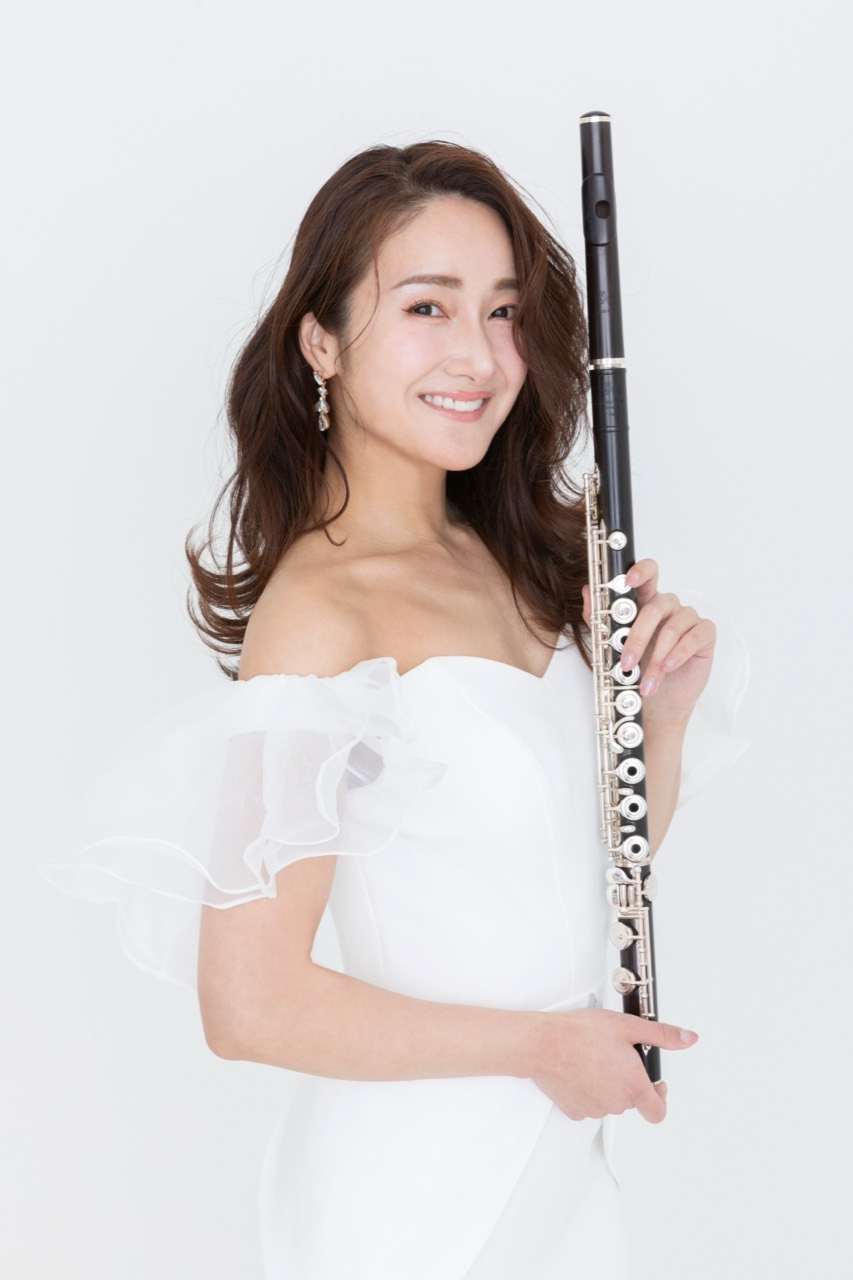
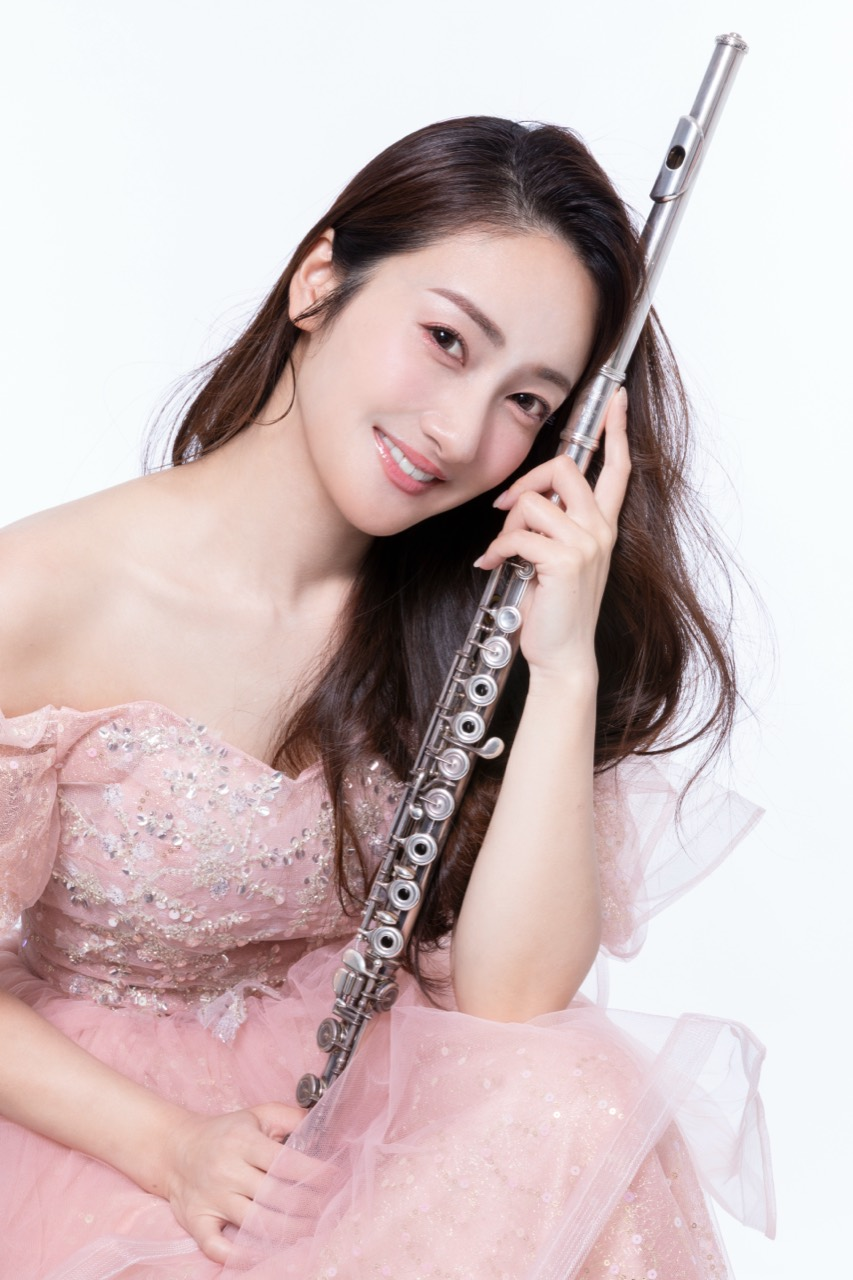
Add representative profile section

diff --git a/index.html b/index.html
@@ -416,6 +416,93 @@
       font-size: 0.92rem;
     }
 
+
+    .representative-section {
+      background:
+        linear-gradient(180deg, rgba(255, 253, 248, 0.72), rgba(247, 245, 242, 0.96));
+    }
+
+    .representative-grid {
+      display: grid;
+      grid-template-columns: minmax(260px, 0.78fr) minmax(0, 1.22fr);
+      gap: 38px;
+      align-items: start;
+    }
+
+    .representative-photo {
+      overflow: hidden;
+      border: 1px solid rgba(139, 107, 63, 0.24);
+      border-radius: var(--radius);
+      background: var(--panel-soft);
+      box-shadow: var(--shadow);
+      aspect-ratio: 4 / 5;
+    }
+
+    .representative-photo img {
+      width: 100%;
+      height: 100%;
+      object-fit: cover;
+      object-position: center top;
+      display: block;
+    }
+
+    .representative-profile {
+      border-top: 1px solid var(--line);
+      padding-top: 24px;
+    }
+
+    .representative-name {
+      margin: 0 0 4px;
+      font-size: clamp(1.8rem, 3vw, 2.5rem);
+      font-weight: 500;
+      letter-spacing: 0.08em;
+    }
+
+    .representative-role {
+      display: block;
+      margin-bottom: 22px;
+      color: var(--accent);
+      font-family: "Cormorant Garamond", serif;
+      font-size: 1.18rem;
+      letter-spacing: 0.08em;
+    }
+
+    .representative-profile p {
+      margin: 0 0 15px;
+      color: var(--text-muted);
+      font-size: 0.98rem;
+      line-height: 1.86;
+    }
+
+    .representative-links {
+      display: flex;
+      flex-wrap: wrap;
+      gap: 10px;
+      margin: 24px 0 20px;
+    }
+
+    .representative-license {
+      margin-top: 20px;
+      padding: 18px 20px;
+      border: 1px solid rgba(139, 107, 63, 0.24);
+      border-radius: var(--radius);
+      background: rgba(255, 253, 248, 0.72);
+    }
+
+    .representative-license h3 {
+      margin: 0 0 10px;
+      color: var(--accent);
+      font-size: 0.95rem;
+      letter-spacing: 0.08em;
+    }
+
+    .representative-license ul {
+      margin: 0;
+      padding-left: 1.1em;
+      color: var(--text-muted);
+      font-size: 0.92rem;
+      line-height: 1.82;
+    }
     .program-table {
       display: grid;
       grid-template-columns: repeat(3, minmax(0, 1fr));
@@ -956,6 +1043,17 @@
         grid-template-columns: 1fr;
       }
 
+
+      .representative-grid {
+        grid-template-columns: 1fr;
+        gap: 26px;
+      }
+
+      .representative-photo {
+        max-width: 460px;
+        width: 100%;
+        margin-inline: auto;
+      }
       .hero-grid {
         gap: 26px;
       }
@@ -1199,6 +1297,40 @@
       </div>
     </section>
 
+
+    <section id="representative-message" class="representative-section">
+      <div class="container representative-grid">
+        <div class="representative-photo">
+          <img src="images/Ari_Onishi.jpg" alt="大西 亜里" loading="lazy">
+        </div>
+        <article class="representative-profile">
+          <div class="section-title">
+            <h2>代表挨拶</h2>
+          </div>
+          <h3 class="representative-name">大西 亜里</h3>
+          <span class="representative-role">Representative / Music Producer</span>
+          <p>国立音楽大学声楽学科ソプラノ専攻卒業。桐蔭学園中学・高等学校、慶應義塾高等学校で音楽教師を務める。音大同級生kiyoと“ANTICA”を結成し、文化放送スーパーオーディションで2,000組からグランプリを受賞。テレビ朝日AXEL主題歌「返事」でメジャーデビューし、文化放送「アンティカの恋愛小説」でDJデビュー。</p>
+          <p>ソロ活動ではテレビ番組「音革命」で桑名正博のアシスタントMCを務め、KONISHIKIと花キューピットテーマソングを作曲・デュエットし全国ツアーを実施。西田ひかる、若槻千夏、IKKO、早乙女太一等へのボイストレーニングや楽曲提供も行う。2008年、avexより「誰より今」でソロデビュー。</p>
+          <p>東日本大震災を受け、昭和大学医学部で呼吸生理学を学び、医学博士と復興支援ソング「ラッタッタ呼吸体操」を共同制作。音楽で心身が健康になる音楽療法を実践している。2020年には相田翔子と共作した「星座の道標」を大西亜里公式YouTubeで配信。</p>
+          <p>2023年、Billboard Live 東京にて相田翔子、ダイアモンドユカイをゲストに迎え、復帰初の2公演を記録動員。2024年からは島谷ひとみ、秋川雅史らと共演し、築地本願寺ブディストホール舞台「おっ母ちゃん」主題歌「あなたが…」と劇伴音楽を担当、作曲家として本格活動を開始。</p>
+          <p>2025年、東京国立博物館「平和への祈り音楽祭」プロデューサーとして、次世代の若手音楽家をブッキングし好評を博す。2026年2月初演のロングラン歴史ミュージカル「小栗忠順」音楽を担当。2026年7月7日より「アンティカ音楽学院」を開校し、代表に就任。</p>
+          <div class="representative-links">
+            <a class="btn btn-secondary" href="https://www.youtube.com/channel/UCm155wwhe8EEy1PWAKxIEug" target="_blank" rel="noopener noreferrer">YouTube</a>
+            <a class="btn btn-secondary" href="https://www.instagram.com/arionishi/?igshid=1um23iik9ed8z" target="_blank" rel="noopener noreferrer">Instagram</a>
+            <a class="btn btn-secondary" href="https://www.tokyoheadline.com/700216/" target="_blank" rel="noopener noreferrer">Interview</a>
+            <a class="btn btn-secondary" href="https://tablo.jp/archives/46301" target="_blank" rel="noopener noreferrer">Article</a>
+          </div>
+          <div class="representative-license">
+            <h3>Licence</h3>
+            <ul>
+              <li>中学高等学校教諭第一種免許</li>
+              <li>日本メンタルヘルス協会認定心理カウンセラー</li>
+              <li>日本音楽著作権協会 JASRAC 会員</li>
+            </ul>
+          </div>
+        </article>
+      </div>
+    </section>
     <section id="news">
       <div class="container">
         <div class="section-title">
